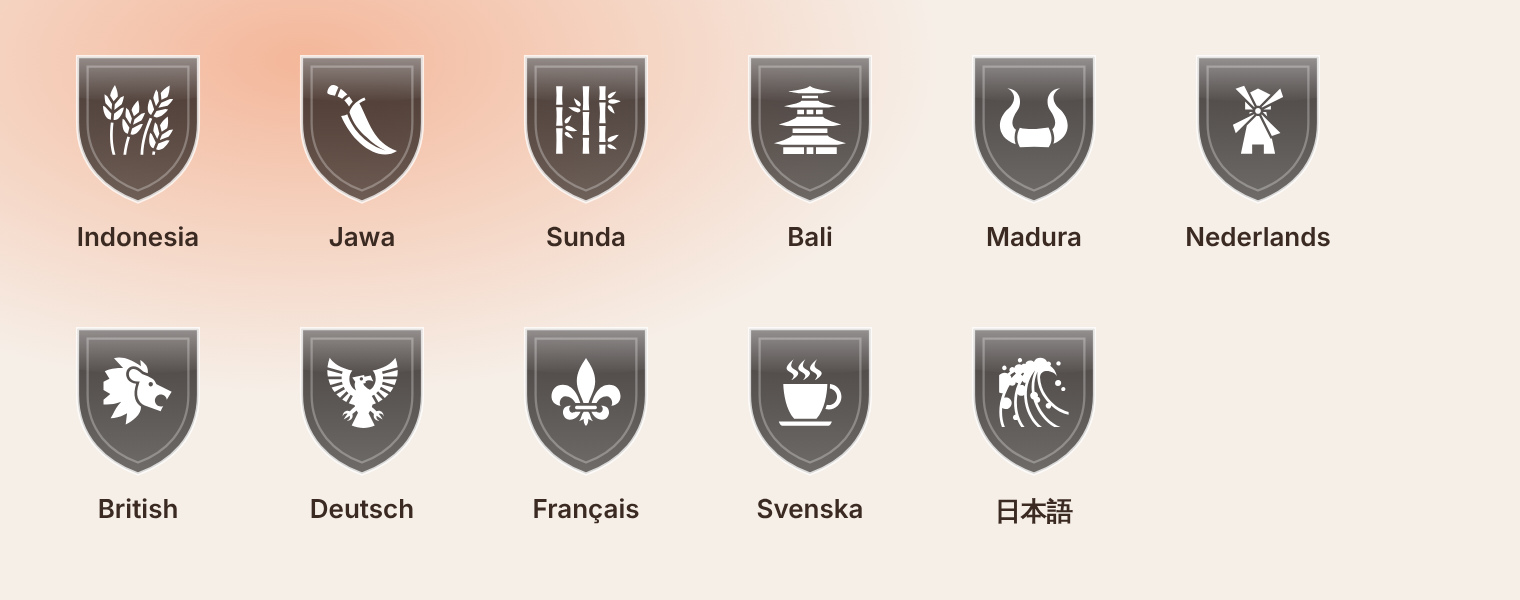
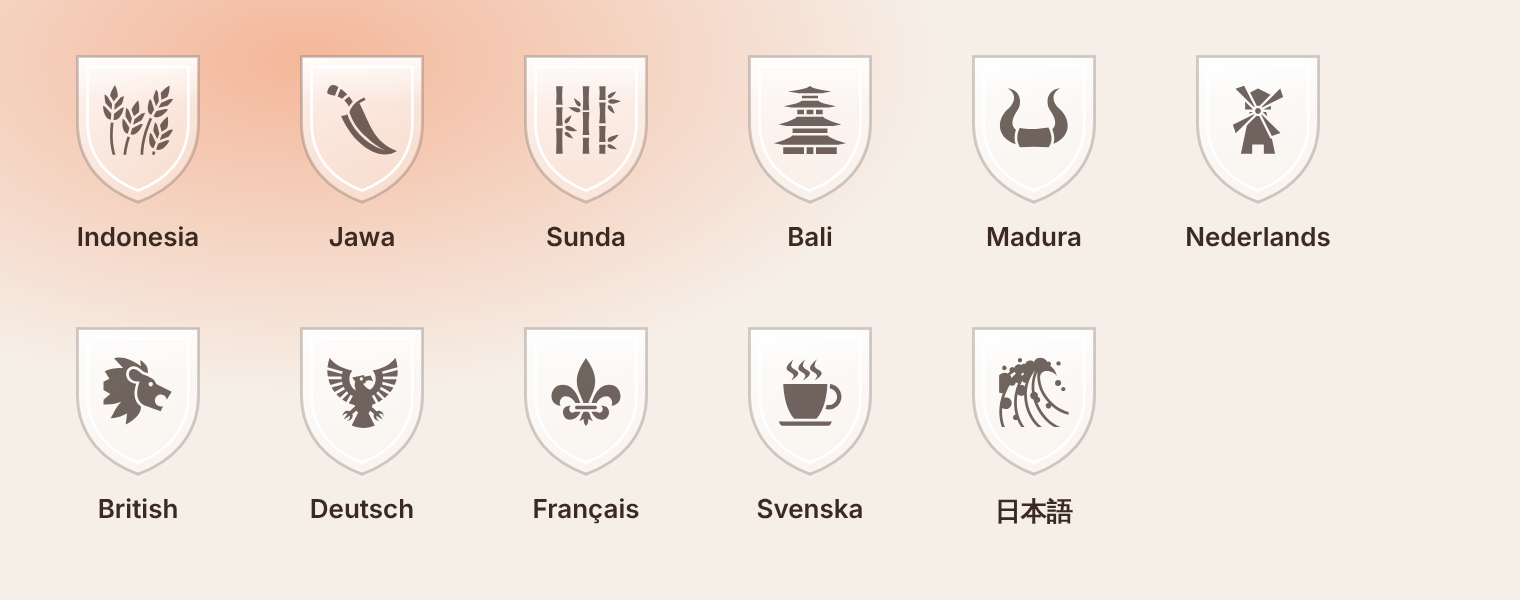
Refined greeting transition and light glass crests
Greeting change is now choreographed: old letters lift away one by one,
the crest coin-flips, new letters rise in with a slight tilt (words
never break), the second line reveals with an ink wipe and the label
slides in. No blur. Crests become clear light glass: frosted white
shield, white highlight and inner line, soft grey rim, charcoal charge.

Claude-Session: https://claude.ai/code/session_01NtCyvoDvjHFmUSFRxXKysP

diff --git a/js/crests.js b/js/crests.js
@@ -13,21 +13,22 @@ const CHARGES = {
  "sv": "M144 32S94.11 69.4 96 96c1.604 22.57 44.375 25.665 48 48 1.91 11.772-16 32-16 32s48-25.373 48-48-42.8-25.978-48-48c-3.875-16.414 16-48 16-48zm80 0s-49.89 37.4-48 64c1.604 22.57 44.375 25.665 48 48 1.91 11.772-16 32-16 32s48-25.373 48-48-42.8-25.978-48-48c-3.875-16.414 16-48 16-48zm80 0s-49.89 37.4-48 64c1.604 22.57 44.375 25.665 48 48 1.91 11.772-16 32-16 32s48-25.373 48-48-42.8-25.978-48-48c-3.875-16.414 16-48 16-48zM73.293 201c1.43 63.948 18.943 179.432 74.707 238h152c55.764-58.568 73.278-174.052 74.707-238H73.293zm319.598.445c-.186 9.152-.652 19.252-1.472 30.057C419.312 235.162 441 259.142 441 288c0 31.374-25.626 57-57 57a56.69 56.69 0 0 1-12.764-1.465c-2.912 9.62-6.176 19.165-9.84 28.51A87.458 87.458 0 0 0 384 375c48.155 0 87-38.845 87-87 0-45.153-34.153-82.12-78.11-86.555zM42.763 457c1.507 5.193 3.854 11.2 6.955 16.37 2.637 4.394 5.69 8.207 8.428 10.58C60.882 486.32 63 487 64 487h320c1 0 3.118-.678 5.855-3.05 2.738-2.373 5.79-6.186 8.428-10.58 3.1-5.17 5.448-11.177 6.955-16.37H42.762z",
  "ja": "M298.844 21.47c-19.177.074-37.7 9.793-43.156 29.06-21.613-18.783-57.038-5.957-57.97 13.907-.397.11-.79.234-1.187.344-12.147-4.116-20.077-.304-24.186 7.44-18.52-14.45-44.42-1.614-51.188 19.218-14.786-17.19-42.58 4.042-30.406 25.124.188.327.397.63.594.938a341.266 341.266 0 0 0-14.063 11.28 51.335 51.335 0 0 0-23.56-5.155c-13.145.303-26.367 5.78-36.19 17.625v118.063c6.726 4.154 16.51 6.48 24.94 5.375a372.038 372.038 0 0 0-16.75 58.437c-.277.918-.546 1.85-.782 2.813-.782 3.182-1.24 6.21-1.407 9.093-9.176 55.403-5.31 111.628 13.095 161.126H56.72c-15.91-39.335-21.726-84.3-18.095-129.875 20.554 13.602 55.617 7.05 63.563-25.31 7.245-29.515-15.273-47.982-38.126-47.876-4.062.02-8.143.638-12.062 1.875 5.06-17.025 11.418-33.773 19.063-49.94a341.501 341.501 0 0 1 19.75-36.03c13.37 8.93 38.33 6.824 41.25-21 1.343 4.814 9.112 7.514 15.656 7.438-10.532 23.45-18.023 48.2-22.564 73.343-8.506 47.1-6.837 95.784 4.625 140.564-22.214 3.28-24.636 38.295 1.22 38.844 4.18.087 7.748-.735 10.72-2.188 7.164 17.84 16.073 34.685 26.686 50.156h23.156c-45.083-57.982-62.535-143.55-48-224.03.185-1.024.4-2.042.594-3.063 12.583 16.662 30.995 16.28 44.313 7.156.098 7.433.444 14.858 1.06 22.25 6.366 76.193 39.422 149.527 91.626 197.686h29.156c-57.272-43.11-95.5-119.53-102.156-199.22-5.615-67.22 10.893-136.265 56.125-190.155-22.662 48.81-28.814 101.335-22.405 152.032-10.69 7.01-16.59 20.936-7.063 35.813 4.65 7.262 10.705 10.994 16.938 12.125a330.085 330.085 0 0 0 6.72 20.78c25.606 71.122 74.834 133.122 135.936 168.626h43.28c-69.03-26.022-128.378-90.037-158.405-166.47 12.857.64 25.67-14.788 16.658-29.686-3.872-6.39-9.452-9.026-14.97-9 3.396-7.17 3.52-15.913-2-24.53-4.954-7.738-11.826-11.5-18.874-12.25-5.378-44.973-.098-91.102 18.812-134.345l.906 1.75C273.37 181.75 290.925 240.357 322.625 289c10 15.346 21.402 29.735 33.906 42.938a19.978 19.978 0 0 0-3.592-.313c-19.654.194-25.004 31.01-1.75 36.72 15.508 3.807 23.524-8.896 21.687-20.408 34.925 31.702 76.562 54.554 119.906 64.094v-19.217c-59.818-14.523-117.576-57.376-154.5-114.032-24.12-37.01-39.39-79.608-41.092-124 4.408-66.014 98.113-44.375 115.656-5.155-6.523-34.758-23.54-58.183-46.094-73.188 15.407-13.958-4.283-37.503-20.813-26.156-8.08-19.323-27.917-28.886-47.093-28.81zm-138.625 2c-2.13.103-4.395.752-6.72 2.03-16.766 9.213-4.997 35.847 12.75 26.094 15.18-8.345 7.774-27.85-5.125-28.125-.3-.008-.602-.016-.906 0zm264.155 22.874c-19.126-.404-22.245 28.57-2 29 20.526.43 21.4-28.59 2-29zM53.5 75.687C43.338 76.05 33.672 88.067 40.562 100c10.167 17.61 36.35 2.13 25.594-16.5-3.315-5.743-8.037-7.977-12.656-7.813zm69.906 42.282c.402.812.812 1.623 1.28 2.436 2.326 4.027 5.03 7.26 7.97 9.813a320.203 320.203 0 0 0-29.875 30.936 44.622 44.622 0 0 0-10.25-20.78c6.11-5.04 12.437-9.807 18.907-14.376 4.71-1.154 9.05-4.033 11.97-8.03zM181 123.062a46.38 46.38 0 0 0 7.063 7.374 272.932 272.932 0 0 0-11.97 15.5 37.77 37.77 0 0 0-10.593-10.812 36.763 36.763 0 0 0 15.5-12.063zm240 51.593c-25.802.693-29.64 40.193-1.594 40.78 28.89.61 30.117-40.2 2.813-40.78-.422-.01-.81-.01-1.22 0zm-244.188 4.625c3.198 9.806 12.542 14.786 22.125 13.69a285.615 285.615 0 0 0-5.718 25.124c-6.353-6.258-13.926-9.102-21.5-9.25-3.403-.067-6.787.43-10.064 1.375a276.48 276.48 0 0 1 15.156-30.94zm280.47 42.22c-18.49-.39-21.542 27.59-1.97 28 19.844.417 20.725-27.608 1.97-28z"
 };
-// Black-and-white glass: translucent smoky shield, glossy top highlight, thin white rim, white charge.
+// Clear light glass: frosted white shield, glossy highlight, soft grey rim, charge in soft charcoal ink.
 let uid = 0;
 export function crest(lang, size = 26) {
   const d = CHARGES[lang]; if (!d) return '';
   const id = `cg${uid++}`;
+  const shield = 'M8 6h84v46c0 30-20 47-42 55C28 99 8 82 8 52Z';
   return `<svg class="crest" width="${size}" height="${size * 1.12}" viewBox="0 0 100 112" aria-hidden="true">
     <defs>
-      <linearGradient id="${id}b" x1="0" y1="0" x2="0" y2="1"><stop offset="0" stop-color="#1a1414" stop-opacity=".78"/><stop offset="1" stop-color="#000" stop-opacity=".55"/></linearGradient>
-      <linearGradient id="${id}g" x1="0" y1="0" x2="0" y2="1"><stop offset="0" stop-color="#fff" stop-opacity=".55"/><stop offset="1" stop-color="#fff" stop-opacity="0"/></linearGradient>
-      <clipPath id="${id}c"><path d="M8 6h84v46c0 30-20 47-42 55C28 99 8 82 8 52Z"/></clipPath>
+      <linearGradient id="${id}b" x1="0" y1="0" x2=".3" y2="1"><stop offset="0" stop-color="#fff" stop-opacity=".85"/><stop offset="1" stop-color="#fff" stop-opacity=".35"/></linearGradient>
+      <linearGradient id="${id}g" x1="0" y1="0" x2="0" y2="1"><stop offset="0" stop-color="#fff" stop-opacity=".95"/><stop offset="1" stop-color="#fff" stop-opacity="0"/></linearGradient>
+      <clipPath id="${id}c"><path d="${shield}"/></clipPath>
     </defs>
-    <path d="M8 6h84v46c0 30-20 47-42 55C28 99 8 82 8 52Z" fill="url(#${id}b)"/>
+    <path d="${shield}" fill="url(#${id}b)"/>
     <g clip-path="url(#${id}c)"><path d="M-10 -4h120v34c-30 10-90 10-120 0Z" fill="url(#${id}g)"/></g>
-    <path d="M8 6h84v46c0 30-20 47-42 55C28 99 8 82 8 52Z" fill="none" stroke="#fff" stroke-opacity=".75" stroke-width="2.2"/>
-    <path d="M15 13h70v39c0 25-16 40-35 47C31 92 15 77 15 52Z" fill="none" stroke="#fff" stroke-opacity=".28" stroke-width="1.6"/>
-    <g transform="translate(24 24) scale(${52 / 512})"><path d="${d}" fill="#fff"/></g>
+    <path d="${shield}" fill="none" stroke="#3a2a22" stroke-opacity=".22" stroke-width="2"/>
+    <path d="M15 13h70v39c0 25-16 40-35 47C31 92 15 77 15 52Z" fill="none" stroke="#fff" stroke-width="1.8"/>
+    <g transform="translate(24 24) scale(${52 / 512})"><path d="${d}" fill="#3a2a22" fill-opacity=".72"/></g>
   </svg>`;
 }

diff --git a/js/login.js b/js/login.js
@@ -184,23 +184,46 @@ function startHello(gate) {
   const tagEl = gate.querySelector('#helloTag'), h1 = gate.querySelector('#hello'), l1 = gate.querySelector('#gateGreet'), l2 = gate.querySelector('#helloSub');
   const reduce = matchMedia('(prefers-reduced-motion: reduce)').matches;
   let turn = 0, li = 0, lastWord = -1;
-  const show = () => {
-    if (!gate.isConnected) return;
+  // Title split into words (never broken) made of letters, so letters can animate one by one
+  const letters = (text) => text.split(' ').map((w, wi, arr) => {
+    const chars = Array.from(w).map((ch) => `<span class="ch">${ch}</span>`).join('');
+    return `<span class="wd">${chars}</span>${wi < arr.length - 1 ? ' ' : ''}`;
+  }).join('');
+  const index = (el) => el.querySelectorAll('.ch').forEach((c, i) => c.style.setProperty('--i', i));
+  const next = () => {
     const dict = turn === 0 || turn % 3 === 2;
+    let tag, word, sub, lang;
     if (dict) {
       let k;
       if (turn === 0) k = KAMUS.findIndex(([, , w]) => w === 'fika'); // fika always opens the rotation
       else do { k = Math.floor(Math.random() * KAMUS.length); } while (k === lastWord && KAMUS.length > 1);
       lastWord = k;
-      const [tag, lang, word, mean] = KAMUS[k];
-      tagEl.innerHTML = `${crest(lang)}Kamus · ${tag}`; l1.textContent = word; l2.textContent = mean; h1.lang = lang === 'en' ? 'en-GB' : lang;
+      [tag, lang, word, sub] = KAMUS[k]; tag = `Kamus · ${tag}`;
     } else {
       const g = HELLO[li % HELLO.length]; li++;
-      tagEl.innerHTML = `${crest(g.lang)}${g.tag}`; l1.textContent = g.hi + ','; l2.textContent = g.sub; h1.lang = g.lang === 'en' ? 'en-GB' : g.lang;
+      tag = g.tag; lang = g.lang; word = g.hi + ','; sub = g.sub;
     }
-    h1.classList.toggle('dict', dict);
-    if (!reduce) { [tagEl, h1].forEach((el) => { el.classList.remove('swap'); void el.offsetWidth; el.classList.add('swap'); }); }
     turn++;
+    return { dict, tag, word, sub, lang };
+  };
+  const paint = ({ dict, tag, word, sub, lang }) => {
+    tagEl.innerHTML = `${crest(lang)}<span class="tg">${tag}</span>`;
+    l1.innerHTML = letters(word); index(l1);
+    l2.textContent = sub;
+    h1.lang = lang === 'en' ? 'en-GB' : lang;
+    h1.classList.toggle('dict', dict);
+  };
+  const show = () => {
+    if (!gate.isConnected) return;
+    const n = next();
+    if (reduce || turn === 1) { paint(n); [h1, tagEl].forEach((el) => { el.classList.remove('out'); el.classList.add('in'); }); return; }
+    // out: letters lift away one by one, crest turns edge-on; then the new text comes in
+    [h1, tagEl].forEach((el) => { el.classList.remove('in'); el.classList.add('out'); });
+    const outMs = 260 + Math.min(l1.querySelectorAll('.ch').length, 20) * 12;
+    setTimeout(() => {
+      paint(n);
+      [h1, tagEl].forEach((el) => { el.classList.remove('out'); void el.offsetWidth; el.classList.add('in'); });
+    }, outMs);
   };
   show();
   setInterval(show, 7000);

diff --git a/style.css b/style.css
@@ -947,3 +947,26 @@ a:active > .sa-ic::after, .sa-svc:active .sa-ic::after, .sa-ic.shine::after { ba
 .hello-tag .crest { flex: none; width: 20px; height: 22px; filter: drop-shadow(0 2px 3px rgba(58, 42, 34, .25)); }
 .hello-tag { gap: 9px; }
 .hello-tag .crest { filter: drop-shadow(0 3px 5px rgba(0, 0, 0, .28)); }
+
+/* ===== Greeting transition: letters out -> crest coin-flip -> letters in, second line ink-wipe (no blur) ===== */
+.gate h1.hello .wd { display: inline-block; white-space: nowrap; }
+.gate h1.hello .ch { display: inline-block; will-change: transform, opacity; }
+.gate h1.hello.in .ch { animation: ch-in .75s cubic-bezier(.2, .9, .25, 1) both; animation-delay: calc(var(--i) * 26ms); }
+@keyframes ch-in { 0% { opacity: 0; transform: translateY(.5em) rotate(6deg); } 55% { opacity: 1; } 100% { opacity: 1; transform: none; } }
+.gate h1.hello.out .ch { animation: ch-out .3s cubic-bezier(.5, 0, .75, 0) both; animation-delay: calc(var(--i) * 12ms); }
+@keyframes ch-out { to { opacity: 0; transform: translateY(-.35em) rotate(-3deg); } }
+.gate h1.hello.in .h2l { animation: ink-wipe 1s cubic-bezier(.65, 0, .25, 1) .22s both; }
+@keyframes ink-wipe { from { clip-path: inset(0 100% 0 0); opacity: .2; } to { clip-path: inset(0 0 0 0); opacity: 1; } }
+.gate h1.hello.out .h2l { animation: line-out .28s ease-in both; }
+@keyframes line-out { to { opacity: 0; transform: translateY(-4px); } }
+.hello-tag { perspective: 300px; }
+.hello-tag.in .crest { animation: coin-in .7s cubic-bezier(.34, 1.56, .64, 1) both; }
+@keyframes coin-in { from { transform: rotateY(-90deg) scale(.9); } to { transform: none; } }
+.hello-tag.out .crest { animation: coin-out .26s ease-in both; }
+@keyframes coin-out { to { transform: rotateY(90deg) scale(.9); } }
+.hello-tag.in .tg { animation: tag-in .6s cubic-bezier(.2, .8, .2, 1) .08s both; display: inline-block; }
+@keyframes tag-in { from { opacity: 0; transform: translateX(-10px); letter-spacing: .3em; } }
+.hello-tag.out .tg { animation: line-out .24s ease-in both; display: inline-block; }
+.gate h1.hello.swap, .hello-tag.swap { animation: none; }
+@media (prefers-reduced-motion: reduce) { .gate h1.hello .ch, .gate h1.hello .h2l, .hello-tag .crest, .hello-tag .tg { animation: none !important; } }
+.hello-tag .crest { filter: drop-shadow(0 3px 6px rgba(58, 42, 34, .14)); }
